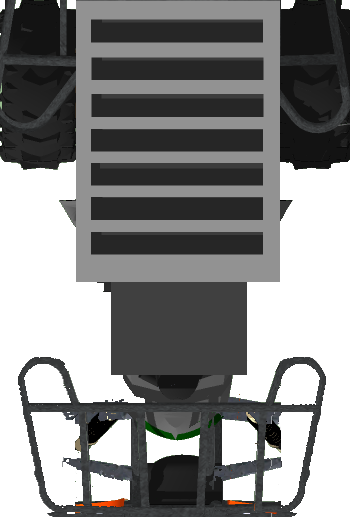
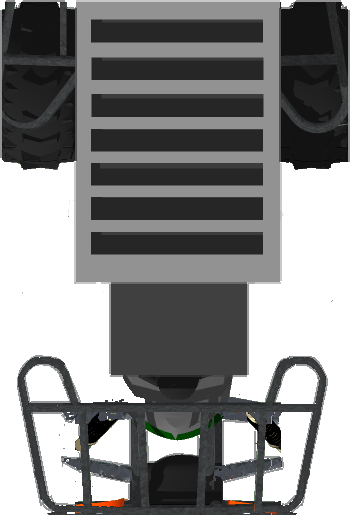
aa

diff --git a/fyp2016/VirtualPlatform.cpp b/fyp2016/VirtualPlatform.cpp
@@ -218,8 +218,8 @@ void VirtualPlatform::drawTexture() {
 	// drawing the quadbike wheels
 	SDL_Rect leftWheelRect = { transform(quadLoc + quad.getLWheel()).x, transform(quadLoc + quad.getLWheel()).y, quad.wheelWidth * drawScale, quad.wheelRadii * 2 * drawScale };
 	SDL_Rect rightWheelRect = { transform(quadLoc + quad.getRWheel()).x, transform(quadLoc + quad.getRWheel()).y, quad.wheelWidth * drawScale, quad.wheelRadii * 2 * drawScale };
-	SDL_RenderCopyEx(mainCanvas->getRenderer(), wheelTexture->getTexture(), NULL, &leftWheelRect, (quad.getHeading() + quad.getSteerAng() + quad.getSteerAng()/5) * 180/3.1416, NULL, SDL_FLIP_NONE);
-	SDL_RenderCopyEx(mainCanvas->getRenderer(), wheelTexture->getTexture(), NULL, &rightWheelRect, (quad.getHeading() + quad.getSteerAng() - quad.getSteerAng()/5) * 180 / 3.1416, NULL, SDL_FLIP_NONE);
+	SDL_RenderCopyEx(mainCanvas->getRenderer(), wheelTexture->getTexture(), NULL, &leftWheelRect, (quad.getHeading() + quad.getSteerAng() + abs(quad.getSteerAng()/5.5)) * 180/3.1416, NULL, SDL_FLIP_NONE);
+	SDL_RenderCopyEx(mainCanvas->getRenderer(), wheelTexture->getTexture(), NULL, &rightWheelRect, (quad.getHeading() + quad.getSteerAng() - abs(quad.getSteerAng()/5.5)) * 180 / 3.1416, NULL, SDL_FLIP_NONE);
 
 	// drawing the sensor mount
 	double sensorFactor = sensorTexture->getHeight() / 3; // divide by 3 because 3m wide

diff --git a/fyp2016/Window.cpp b/fyp2016/Window.cpp
@@ -15,6 +15,20 @@ Window::Window()
 		return;
 	}
 
+	SDL_GL_SetAttribute(SDL_GL_RED_SIZE, 8);
+	SDL_GL_SetAttribute(SDL_GL_GREEN_SIZE, 8);
+	SDL_GL_SetAttribute(SDL_GL_BLUE_SIZE, 8);
+	SDL_GL_SetAttribute(SDL_GL_ALPHA_SIZE, 8);
+
+	SDL_GL_SetAttribute(SDL_GL_DEPTH_SIZE, 32);
+
+	SDL_GL_SetAttribute(SDL_GL_MULTISAMPLEBUFFERS, 1);
+	SDL_GL_SetAttribute(SDL_GL_MULTISAMPLESAMPLES, 2);
+
+	SDL_GL_SetAttribute(SDL_GL_ACCELERATED_VISUAL, 1);
+
+	SDL_SetHint(SDL_HINT_RENDER_SCALE_QUALITY, "1");
+
 	window = SDL_CreateWindow(
 		"FYP 2099 Control Program", 
 		SDL_WINDOWPOS_UNDEFINED, SDL_WINDOWPOS_UNDEFINED,
